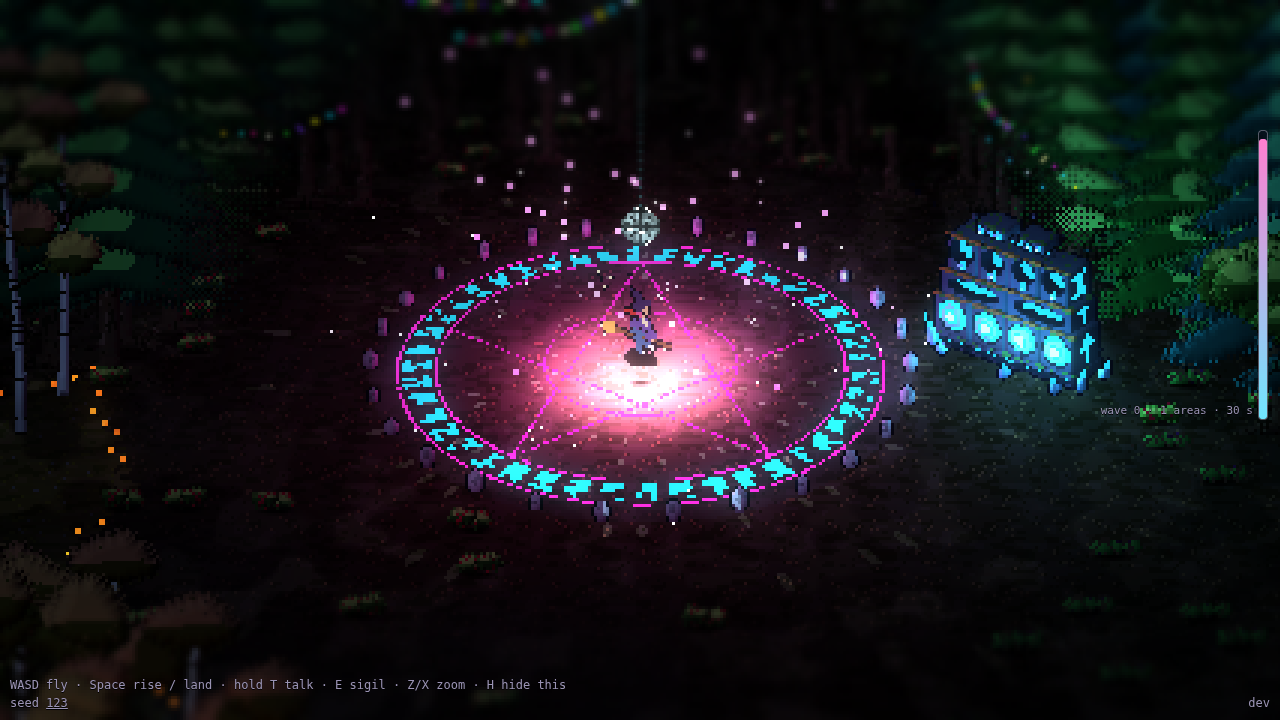
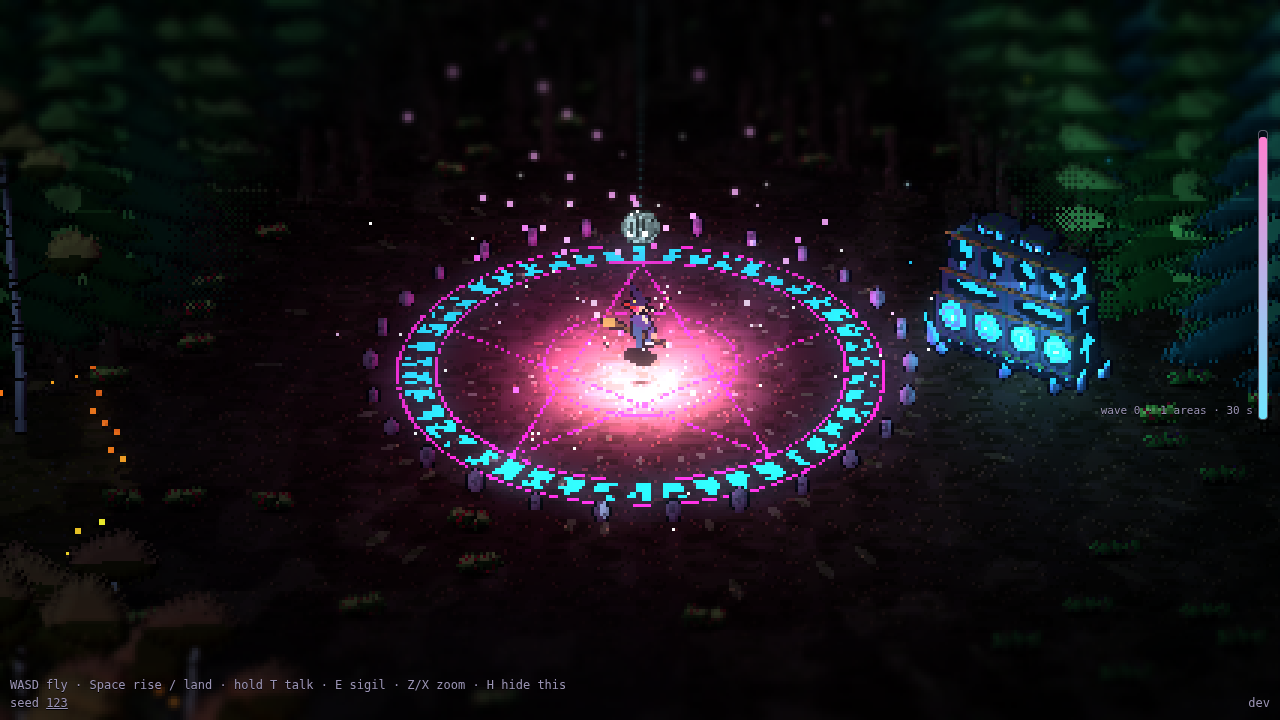
Never lose the witch: tall things in front of her fade (smoothly) where they cover her, and anything still hiding her shows her silhouette in her glow colour; she is depth-tested like the rest; occlusion settings in the tuning file; smoke shot behind the home soundsystem
Claude-Session: https://claude.ai/code/session_01MR6jyHx6mcGYyfzATvhXK3

diff --git a/src/render/sprites.ts b/src/render/sprites.ts
@@ -18,11 +18,19 @@ export const SPRITE_UNIFORMS = {
   uDebugCull: { value: 0 },
   // The low-resolution picture's size in pixels: each sprite's base is snapped to its pixel grid.
   uRes: { value: new THREE.Vector2(1, 1) },
+  // The witch on screen (pixels: centre x, y, half width, half height) and her distance from the
+  // camera, so whatever stands in front of her can fade; uOcc: fade opacity, soft edge (px),
+  // the height (m) above which a thing counts as tall, on (1) or off (0).
+  uWitch: { value: new THREE.Vector4(0, 0, 0, 0) },
+  uWitchDepth: { value: 0 },
+  uOcc: { value: new THREE.Vector4(0.38, 6, 2.5, 1) },
 };
 
 const VERT = /* glsl */ `
 uniform vec3 uRight, uUp;
 uniform vec2 uRes;
+uniform float uWitchDepth;
+uniform vec4 uOcc;
 attribute vec3 iPos;
 attribute vec2 iSize;
 attribute vec4 iUv;
@@ -30,7 +38,10 @@ attribute vec3 iFlags;
 varying vec2 vUv;
 varying vec3 vWorld;
 varying vec3 vFlags;
+varying float vFront;
 void main() {
+  // Tall and nearer the camera than the witch: it may stand in front of her.
+  vFront = (-(viewMatrix * vec4(iPos, 1.0)).z < uWitchDepth - 0.5 && iSize.y > uOcc.z) ? 1.0 : 0.0;
   vec3 w = iPos + uRight * (position.x * iSize.x) + uUp * (position.y * iSize.y);
   float u = iFlags.x > 0.5 ? 1.0 - uv.x : uv.x;
   vUv = vec2(mix(iUv.x, iUv.z, u), mix(iUv.w, iUv.y, uv.y));
@@ -51,9 +62,12 @@ uniform vec3 uRight, uUp, uFacing;
 uniform float uTopFade, uUnlit;
 uniform vec4 uCutout;
 uniform float uDebugCull;
+uniform vec4 uWitch, uOcc, uSilhouette;
+uniform float uFadePass;
 varying vec2 vUv;
 varying vec3 vWorld;
 varying vec3 vFlags;
+varying float vFront;
 ${LIGHT_GLSL}
 // 4x4 ordered dither, for fading the canopy in pixel-art style.
 float bayer(vec2 p) {
@@ -65,6 +79,14 @@ float bayer(vec2 p) {
 void main() {
   vec4 a = texture2D(uAlbedo, vUv);
   if (a.a < 0.5) discard;
+  // The witch's see-through silhouette: where she is hidden, a flat tint in her glow colour.
+  if (uSilhouette.a > 0.0) { gl_FragColor = vec4(uSilhouette.rgb, uSilhouette.a); return; }
+  // Things standing in front of the witch fade (smoothly) where they cover her: left out of the
+  // opaque pass there and drawn in a second, see-through pass after her.
+  vec2 o = abs(gl_FragCoord.xy - uWitch.xy) - uWitch.zw;
+  float occl = uOcc.w * vFront * (1.0 - smoothstep(0.0, uOcc.y, max(o.x, o.y)));
+  if (uFadePass > 0.5 ? occl <= 0.001 : occl > 0.001) discard;
+  float alpha = uFadePass > 0.5 ? mix(1.0, uOcc.x, occl) : 1.0;
   if (vFlags.y > 0.5) {
     // Crowns: hidden in a dithered hole round the witch, which closes as she rises.
     float d = length(gl_FragCoord.xy - uCutout.xy);
@@ -72,14 +94,14 @@ void main() {
     if (bayer(gl_FragCoord.xy) >= max(shown, uTopFade)) discard;
   }
   // Eye glints, flowers and magic glow: the generator marks them with alpha 254.
-  if (uDebugCull > 0.5 && vFlags.z > 0.5) { gl_FragColor = vec4(1.0, 0.0, 0.0, 1.0); return; }
-  if (uUnlit > 0.5) { gl_FragColor = vec4(a.rgb, 1.0); return; }
-  if (a.a < 0.999) { gl_FragColor = vec4(haze(a.rgb, vWorld), 1.0); return; }
+  if (uDebugCull > 0.5 && vFlags.z > 0.5) { gl_FragColor = vec4(1.0, 0.0, 0.0, alpha); return; }
+  if (uUnlit > 0.5) { gl_FragColor = vec4(a.rgb, alpha); return; }
+  if (a.a < 0.999) { gl_FragColor = vec4(haze(a.rgb, vWorld), alpha); return; }
   vec4 n = texture2D(uNormal, vUv);
   float nx = (n.r * 255.0 - 128.0) / 127.0, ny = (n.g * 255.0 - 128.0) / 127.0, nz = n.b;
   if (vFlags.x > 0.5) nx = -nx;
   vec3 N = normalize(uRight * nx - uUp * ny + uFacing * nz);
-  gl_FragColor = vec4(haze(min(vec3(1.0), a.rgb * nightLight(N, vWorld) * 1.25), vWorld), 1.0);
+  gl_FragColor = vec4(haze(min(vec3(1.0), a.rgb * nightLight(N, vWorld) * 1.25), vWorld), alpha);
 }
 `;
 
@@ -87,6 +109,9 @@ export interface SpriteInstance { x: number; y: number; z: number; frame: Frame;
 
 export class SpriteBatch {
   readonly mesh: THREE.Mesh;
+  /** Every mesh to add to the scene: the batch itself, plus its see-through pass (things in
+   *  front of the witch, faded) or, for the witch, her silhouette where she's hidden. */
+  readonly meshes: THREE.Mesh[];
   private geo: THREE.InstancedBufferGeometry;
   private pos: THREE.InstancedBufferAttribute;
   private size: THREE.InstancedBufferAttribute;
@@ -96,7 +121,7 @@ export class SpriteBatch {
   count = 0;
 
   /** metresPerPixel: world size of one art pixel. */
-  constructor(readonly atlas: Atlas, readonly metresPerPixel: number, opts: { unlit?: boolean; onTop?: boolean } = {}) {
+  constructor(readonly atlas: Atlas, readonly metresPerPixel: number, opts: { unlit?: boolean; onTop?: boolean; fade?: boolean; silhouette?: { colour: THREE.Vector3; opacity: number } } = {}) {
     const quad = new THREE.PlaneGeometry(1, 1);
     quad.translate(0, 0.5, 0); // stand on the base
     this.geo = new THREE.InstancedBufferGeometry();
@@ -105,14 +130,24 @@ export class SpriteBatch {
     this.geo.setAttribute("uv", quad.getAttribute("uv"));
     this.pos = this.size = this.uvs = this.flags = undefined as never;
     this.grow(64);
-    const mat = new THREE.ShaderMaterial({
-      vertexShader: VERT, fragmentShader: FRAG,
-      uniforms: { ...LIGHT_UNIFORMS, ...SPRITE_UNIFORMS, uAlbedo: { value: atlas.albedo }, uNormal: { value: atlas.normal }, uUnlit: { value: opts.unlit ? 1 : 0 } },
-      depthTest: !opts.onTop, depthWrite: !opts.onTop,
-    });
+    const uniforms = (extra: Record<string, THREE.IUniform>) => ({ ...LIGHT_UNIFORMS, ...SPRITE_UNIFORMS, uAlbedo: { value: atlas.albedo }, uNormal: { value: atlas.normal }, uUnlit: { value: opts.unlit ? 1 : 0 }, uFadePass: { value: 0 }, uSilhouette: { value: new THREE.Vector4(0, 0, 0, 0) }, ...extra });
+    const mat = new THREE.ShaderMaterial({ vertexShader: VERT, fragmentShader: FRAG, uniforms: uniforms({}), depthTest: !opts.onTop, depthWrite: !opts.onTop });
     this.mesh = new THREE.Mesh(this.geo, mat);
     this.mesh.frustumCulled = false;
     if (opts.onTop) this.mesh.renderOrder = 10;
+    this.meshes = [this.mesh];
+    if (opts.fade) {
+      // Drawn after the witch (render order 10): the parts of tall things covering her, see-through.
+      const fade = new THREE.Mesh(this.geo, new THREE.ShaderMaterial({ vertexShader: VERT, fragmentShader: FRAG, uniforms: uniforms({ uFadePass: { value: 1 } }), transparent: true, depthWrite: false }));
+      fade.frustumCulled = false; fade.renderOrder = 11;
+      this.meshes.push(fade);
+    }
+    if (opts.silhouette) {
+      // Where she is hidden (behind something already drawn), a flat tint, so she's never lost.
+      const c = opts.silhouette.colour, sil = new THREE.Mesh(this.geo, new THREE.ShaderMaterial({ vertexShader: VERT, fragmentShader: FRAG, uniforms: uniforms({ uSilhouette: { value: new THREE.Vector4(c.x, c.y, c.z, opts.silhouette.opacity) } }), transparent: true, depthWrite: false, depthFunc: THREE.GreaterDepth }));
+      sil.frustumCulled = false; sil.renderOrder = 12;
+      this.meshes.push(sil);
+    }
   }
 
   private grow(n: number): void {
@@ -147,7 +182,7 @@ export class SpriteBatch {
     for (const a of [this.pos, this.size, this.uvs, this.flags]) a.needsUpdate = true;
     this.count = items.length;
     this.geo.instanceCount = items.length;
-    this.mesh.visible = items.length > 0;
+    for (const m of this.meshes) m.visible = items.length > 0;
   }
 
   /** Instances set but not drawn: three.js draws at most the count it last saw the buffers hold.

diff --git a/src/render/view.ts b/src/render/view.ts
@@ -100,10 +100,15 @@ export class View {
     LIGHT_UNIFORMS.uHazeRange.value.set(t.haze.near, t.haze.far);
     this.scene.add(this.ground.mesh);
 
-    this.witchBatch = new SpriteBatch(this.assets.witch, this.mpp, { unlit: true, onTop: true });
-    this.scene.add(this.witchBatch.mesh);
-    this.stoneBatch = new SpriteBatch(this.assets.stones, this.mpp);
-    this.scene.add(this.stoneBatch.mesh);
+    // The witch is depth-tested like everything else, drawn after it; where something still hides
+    // her, a silhouette in her glow colour shows through, and tall things in front of her fade.
+    const O = t.occlusion;
+    this.witchBatch = new SpriteBatch(this.assets.witch, this.mpp, { unlit: true, silhouette: { colour: LIGHT_UNIFORMS.uGlowRgb.value.clone(), opacity: O.silhouette } });
+    this.witchBatch.mesh.renderOrder = 10;
+    this.scene.add(...this.witchBatch.meshes);
+    SPRITE_UNIFORMS.uOcc.value.set(O.fadeOpacity, O.edge, O.minHeight, O.on ? 1 : 0);
+    this.stoneBatch = new SpriteBatch(this.assets.stones, this.mpp, { fade: true });
+    this.scene.add(...this.stoneBatch.meshes);
     const d = game.map.dancefloor, stones: SpriteInstance[] = [];
     const n = game.tuning.dancefloor.stones;
     for (let i = 0; i < n; i++) {
@@ -111,15 +116,15 @@ export class View {
       stones.push({ x: d.x + Math.cos(a) * d.radius, y: 0, z: d.z + Math.sin(a) * d.radius, frame: this.assets.stones.frames[i % 4], flip: i % 2 === 0 });
     }
     this.stoneBatch.set(stones);
-    this.propBatch = new SpriteBatch(this.assets.props, this.mpp);
-    this.scene.add(this.propBatch.mesh);
+    this.propBatch = new SpriteBatch(this.assets.props, this.mpp, { fade: true });
+    this.scene.add(...this.propBatch.meshes);
     this.partyView = new PartyView(this.assets.soundsystems, this.mpp);
     this.strings = new StringLightsView(this.scene, game);
     this.leashView = new LeashView(this.scene, game);
     this.lasers = new Lasers(this.scene, game);
     this.borders = new BorderView(this.scene, game);
-    this.soundBatch = new SpriteBatch(this.assets.soundsystems, this.mpp);
-    this.scene.add(this.soundBatch.mesh);
+    this.soundBatch = new SpriteBatch(this.assets.soundsystems, this.mpp, { fade: true });
+    this.scene.add(...this.soundBatch.meshes);
     this.dancefloor = new Dancefloor(game.map, t, SPRITE_UNIFORMS, this.mpp);
     this.scene.add(this.dancefloor.ball, this.dancefloor.beam, this.dancefloor.motes);
 
@@ -174,7 +179,7 @@ export class View {
 
   private batchFor<K>(map: Map<K, SpriteBatch>, key: K, atlas: () => SpriteBatch | undefined): SpriteBatch | undefined {
     let b = map.get(key);
-    if (!b) { b = atlas(); if (b) { map.set(key, b); this.scene.add(b.mesh); } }
+    if (!b) { b = atlas(); if (b) { map.set(key, b); this.scene.add(...b.meshes); } }
     return b;
   }
 
@@ -341,7 +346,7 @@ export class View {
     scatter("setpiece", g.forest.setPiecesNear(cx, cz, half), l => (l.set === null ? [] : [l.set]));
     for (const [type, b] of this.typeBatches) if (!per.has(type)) b.set([]);
     for (const [type, list] of per) {
-      const b = this.batchFor(this.typeBatches, type, () => { const a = this.assets.typeArt(type); return a && new SpriteBatch(a.atlas, mpp); });
+      const b = this.batchFor(this.typeBatches, type, () => { const a = this.assets.typeArt(type); return a && new SpriteBatch(a.atlas, mpp, { fade: true }); });
       b?.set(list);
     }
     this.checkPops("placed", !force);
@@ -504,6 +509,13 @@ export class View {
       : w.lean ? 6 + (w.away ? 1 : 0) : (w.away ? 3 : 0) + (Math.floor(time * 4) % 3);
     const wframe = this.assets.witch.frames[wf], hatTop = h + bob - 0.4 + wframe.h * this.mpp;
     this.witchBatch.set([{ x: w.x, y: h + bob - 0.4, z: w.z, frame: wframe, flip: w.facing < 0 }]);
+    // Where she is on screen (low-res pixels) and how far from the camera, for the occluder fade.
+    {
+      const px = (x: number, y: number, z: number) => { const p = this.v3.set(x, y, z).project(this.camera); return [(p.x + 1) / 2 * this.width, (p.y + 1) / 2 * this.height]; };
+      const base = px(w.x, h + bob - 0.4, w.z), top = px(w.x, hatTop, w.z), side = px(w.x + wframe.w * this.mpp / 2, h + bob - 0.4, w.z);
+      SPRITE_UNIFORMS.uWitch.value.set((base[0] + top[0]) / 2, (base[1] + top[1]) / 2, Math.abs(side[0] - base[0]) + 1, Math.abs(top[1] - base[1]) / 2 + 1);
+      SPRITE_UNIFORMS.uWitchDepth.value = -this.v3.set(w.x, h, w.z).applyMatrix4(this.camera.matrixWorldInverse).z;
+    }
     this.shadow.position.set(w.x, 0.03, w.z);
     this.shadow.scale.setScalar(1 - 0.5 * canopyShown(w));
 

diff --git a/src/rules/tuning.ts b/src/rules/tuning.ts
@@ -73,6 +73,7 @@ export interface Tuning {
   lights: { campfire: { reach: number; strength: number }; stone: { reach: number; strength: number } };
   glowPower: number;
   beat: { bpm: number };
+  occlusion: { on: boolean; fadeOpacity: number; edge: number; minHeight: number; silhouette: number };
   stack: { offset: number; scale: number; gap: number; stiffness: number; damping: number; trail: number; idleSway: number };
   lasers: { on: boolean; maxCount: number; length: number; spread: number; maxTilt: number; sweep: number; sweepBeats: number; openBars: number; opacity: number; duty: number; blockBars: number; fadeIn: number; fadeOut: number; fadeNear: number; fadeFar: number };
   borders: { on: boolean; width: number; brightness: number; sparkle: number; step: number };
